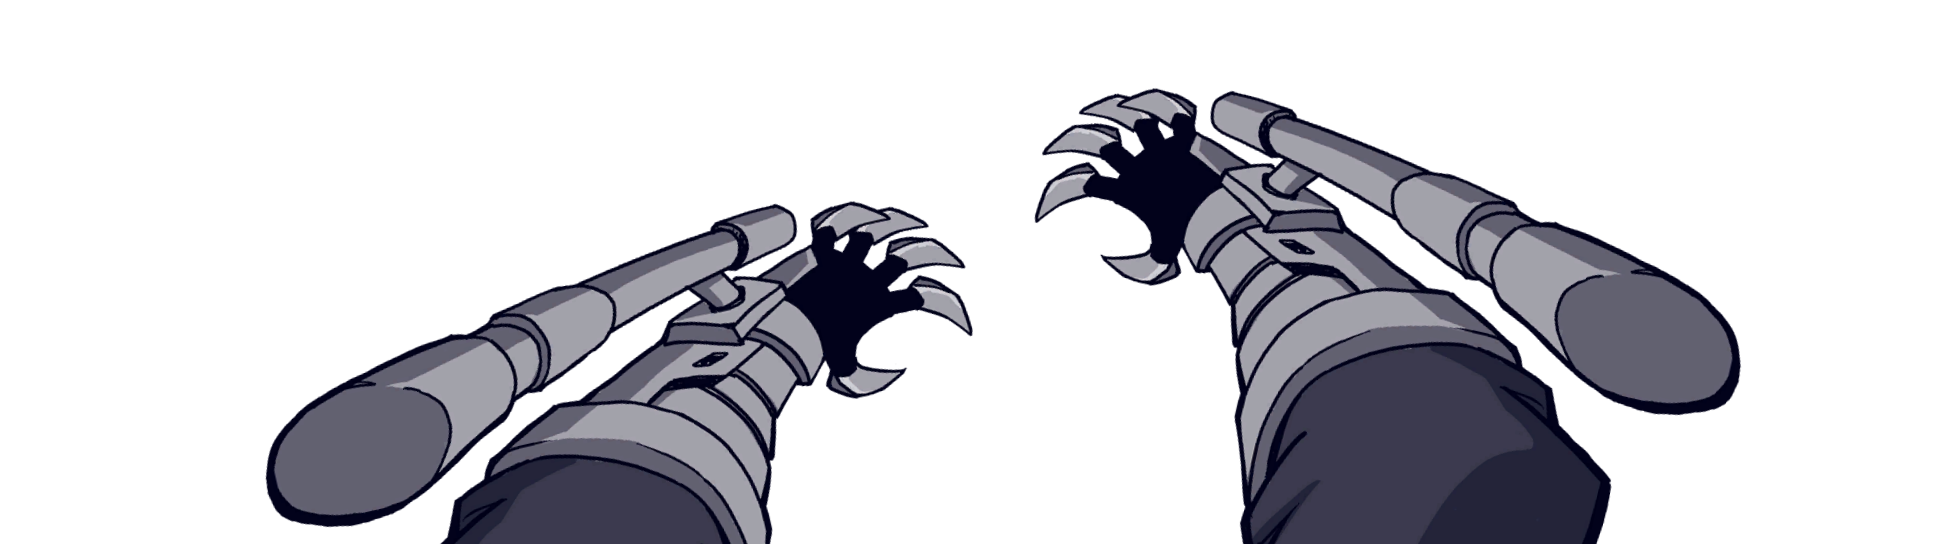
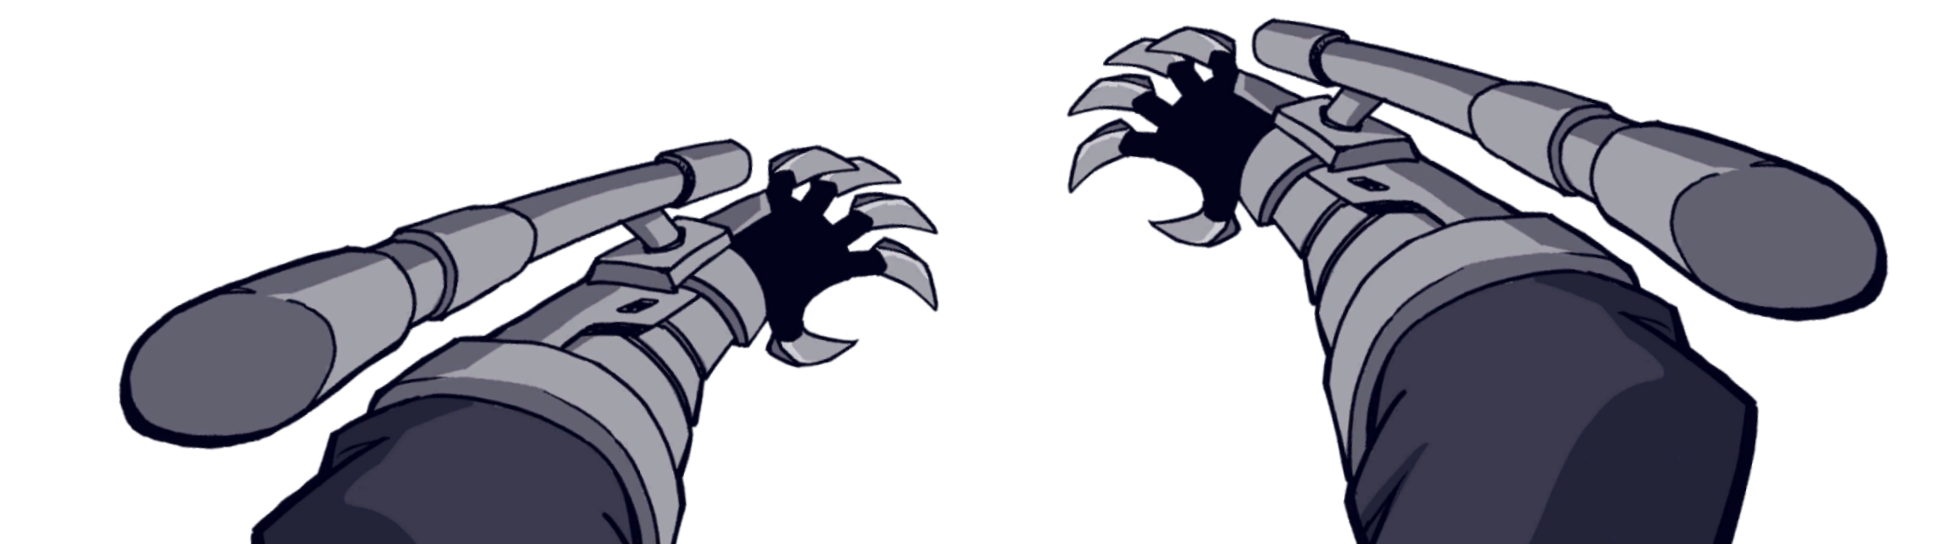
리소스 수정

diff --git a/Helltaker/Helltaker_Contents/Sin_Judge.cpp b/Helltaker/Helltaker_Contents/Sin_Judge.cpp
@@ -34,22 +34,22 @@ void Sin_Judge::Intro_AppearStart()
 {
 	CreateBigChain();
 
-	std::vector<int> Idx(16, 0);
-	for (int i = 0; i < 16; i++)
+	std::vector<int> Idx(14, 0);
+	for (int i = 0; i < 14; i++)
 	{
 		Idx[i] = i;
 	}
-
-	std::vector<float> Inter(16, 0.0f);
-	for (int i = 0; i < 16; i++)
+	
+	std::vector<float> Inter(14, 0.0f);
+	for (int i = 0; i < 14; i++)
 	{
-		if (10 > i)
+		if (8 > i)
 		{
 			Inter[i] = 0.001f * (i + 1);
 		}
 		else
 		{
-			Inter[i] = 0.0015f * (i + 1);
+			Inter[i] = 0.002f * (i + 1);
 		}
 	}
 	
@@ -102,12 +102,12 @@ void Sin_Judge::Intro_Appear1(float _DeltaTime)
 	}
 
 	FVector WinScale = ContentsHelper::GetWindowScale();
-	FVector Scale = { 1.021f, 0.537f };
-	FVector Pos = { 0.0f, 0.0042f };
+	FVector Scale = { 1.021f, 0.504f };
+	FVector Pos = { 0.0f, 0.022f };
 	GetImageRenderer()->AnimationReset();
 	GetImageRenderer()->ChangeAnimation("Jud_Arm1");
 	GetImageRenderer()->SetTransform({ WinScale * Pos, WinScale * Scale });
-	TimeCount = 1.0f;
+	TimeCount = 1.1f;
 	++OrderCount;
 }
 

diff --git a/Helltaker/Helltaker_Contents/Helltaker_ContentsCore.cpp b/Helltaker/Helltaker_Contents/Helltaker_ContentsCore.cpp
@@ -69,8 +69,8 @@ void Helltaker_ContentsCore::BeginPlay()
 	//CreateLevel<Chapter8>("Chapter8");
 	//ChangeLevel("Chapter8");
 		
-	CreateLevel<Chapter9>("Chapter9");
-	ChangeLevel("Chapter9");
+	//CreateLevel<Chapter9>("Chapter9");
+	//ChangeLevel("Chapter9");
 
 	//CreateLevel<SinOpening>("SinOpening");
 	//ChangeLevel("SinOpening");
